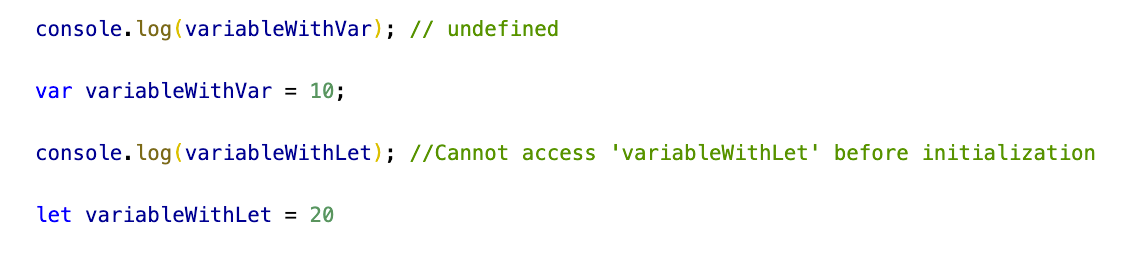
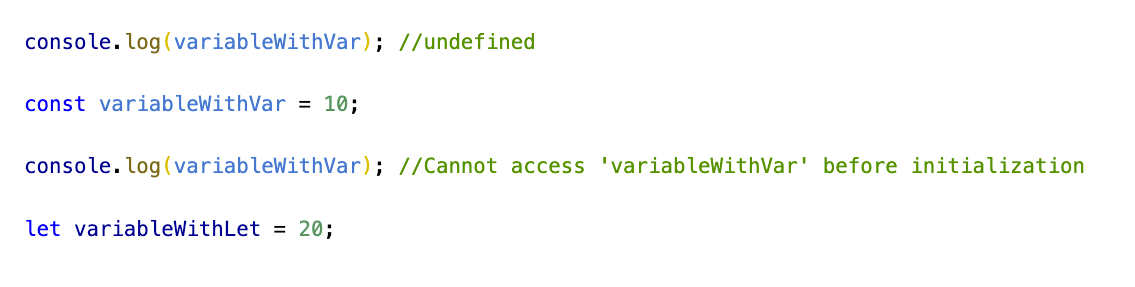
add file

diff --git a/index.js b/index.js
@@ -1,14 +1,10 @@
 
 
 
+console.log(variableWithVar); //undefined
 
-const array = ['red', 'blue', 'black', 'indigo'];
-const lastValue = array[array.length - 1];
-console.log(lastValue); //indigo
+const variableWithVar = 10;
 
+console.log(variableWithVar); //Cannot access 'variableWithVar' before initialization
 
-
-
-
-// const lastValue = array.at(-1);
-// console.log(lastValue); //indigo
+let variableWithLet = 20;

diff --git a/public/chapter/2_lexical_environment/index.html b/public/chapter/2_lexical_environment/index.html
@@ -45,8 +45,8 @@
 
     <div class="step slide " data-rel-x="2200" data-rel-y="0">
         <h2>Hoisting</h2>
-        <div style="display: flex; justify-content: space-between; gap: 80px; align-items: center">
-            <img class='img w1000' src="./images/img7.png" alt="">
+        <div>
+            <img style="width: 100%;" src="./images/img7.png" alt="">
         </div>
     </div>
 

diff --git a/index.html b/index.html
@@ -13,18 +13,7 @@
 </head>
 <body>
     <script>
-const proto = {
-    protoProp: 'protoProp'
-};
 
-const obj = {
-    __proto__: proto,
-    objProp: 'objProp'
-};
-
-console.log('protoProp' in obj);
-console.log(Object.hasOwn(obj, 'objProp'));
-console.log(Object.hasOwn(obj, 'protoProp'))
     </script>
 </body>
 </html>
